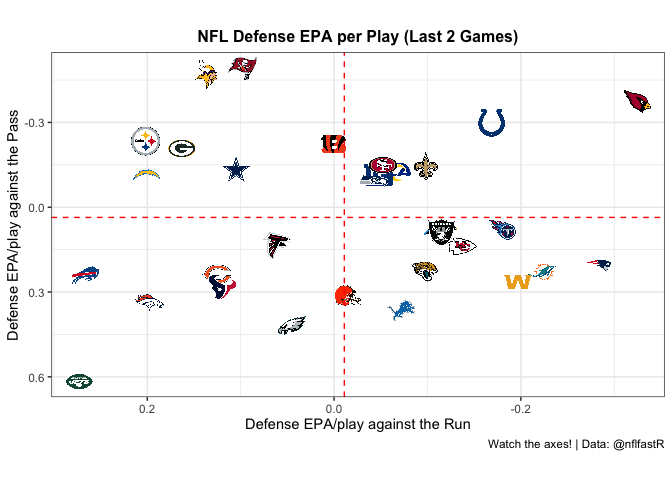
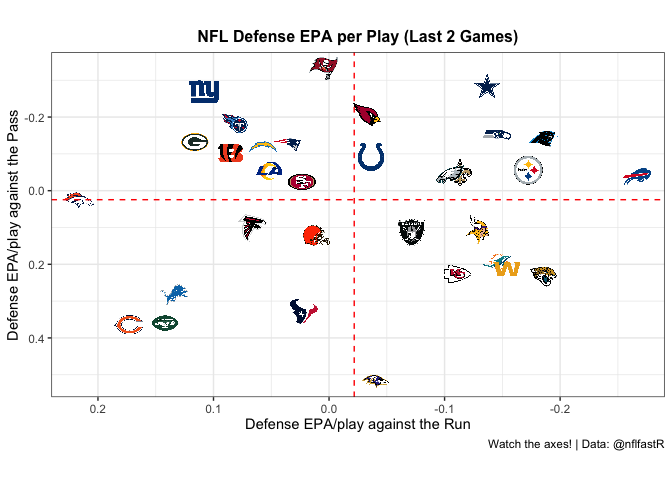
2021-11-02

diff --git a/NFL-Report.md b/NFL-Report.md
@@ -1,5 +1,5 @@
 
-# NFL Landscape: Week 7
+# NFL Landscape: Week 8
 
 ### Overall Efficiency Landscape
 
